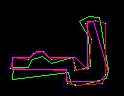
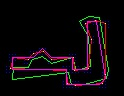
Лучше

diff --git a/grid.cpp b/grid.cpp
@@ -11,13 +11,6 @@ extern Scalar red;
 extern Scalar green;
 extern Scalar blue;
 
-struct comparePoints {
-    bool operator () (cv::Point const& a, cv::Point const& b) const
-    {
-        return (a.x < b.x) || (a.x == b.x && a.y < b.y);
-    }
-};
-
 // пока что на примере картинки с одним контуром реализую алгоритм Грибова
 void gribovAlgorithm() {
     Mat img = imread("../oneBuilding.jpeg");
@@ -88,7 +81,7 @@ void gribovAlgorithm() {
 
     int prevPointsCount = 3;
 
-    for (int pointNum = 1; pointNum < n; pointNum++) {
+    for (int pointNum = 1; pointNum <= n; pointNum++) {
         Point currentPoint = rotatedContour[pointNum];
         tempSC.clear();
         tempDA.clear();
@@ -103,15 +96,22 @@ void gribovAlgorithm() {
                 for (int prevAuxNum = 0; prevAuxNum < auxCount; prevAuxNum++) {
                     Point prevAuxPoint = auxilaryPoints[prevPoint][prevAuxNum];
                     if (prevPointNum != 0) {
-                        int prevPrevPointNum = bpp[prevPointNum][prevAuxNum].first;
-                        int prevPrevAuxPointNum = bpp[prevPointNum][prevAuxNum].second;
-                        Point prevPrevPoint = auxilaryPoints[rotatedContour[prevPrevPointNum]][prevPrevAuxPointNum];
+                        Point prevPrevPoint = getPrevPoint(prevPointNum, prevAuxNum, rotatedContour, bpp, auxilaryPoints);
                         double angle = getAngleBetweenSegments(prevPrevPoint, prevAuxPoint, currentAuxPoint);
                         if ((int)angle % 45 != 0) {
                             continue;
                         }
                     }
-                    double currentArea = getArea(currentPoint, prevPoint, currentAuxPoint, prevAuxPoint);
+                    vector<Point> newContour;
+                    newContour.push_back(currentPoint);
+                    for (int j = pointNum - 1; j > prevPointNum; j--){
+                        Point newPoint = rotatedContour[j];
+                        newContour.push_back(newPoint);
+                    }
+                    newContour.push_back(prevPoint);
+                    newContour.push_back(prevAuxPoint);
+                    newContour.push_back(currentAuxPoint);
+                    double currentArea = getArea(newContour);
                     double allArea = currentArea + da[prevPointNum][prevAuxNum];
                     if (allArea < minArea) {
                         minArea = allArea;
@@ -129,24 +129,9 @@ void gribovAlgorithm() {
         bpp.push_back(tempBPP);
     }
 
-    int lastIndex = rotatedContour.size() - 1;
+    // тут нужно соединить последнее и первое
 
-//    int minSC = INFINITY;
-//    int almostMinSC = INFINITY;
-//    vector<int> minAuxIndex;
-//    vector<int> almostMinIndex;
-//
-//    for (int i = 0; i < auxCount; i++) {
-//        int currentSC = sc[lastIndex][i];
-//        if (currentSC == minSC) {
-//            minAuxIndex.push_back(i);
-//        }
-//        if (currentSC < minSC) {
-//            minSC = currentSC;
-//            minAuxIndex.clear();
-//            minAuxIndex.push_back(i);
-//        }
-//    }
+    int lastIndex = rotatedContour.size() - 1;
 
     int minSC = INFINITY;
     int almostMinSC = INFINITY;
@@ -194,41 +179,15 @@ void gribovAlgorithm() {
         bestAuxIndex = minAuxIndex[0];
     }
 
-    int bestAlmostMinIndex;
-
-    if (almostMinIndex.size() > 1) {
-        double minArea = INFINITY;
-        for (int i: almostMinIndex) {
-            int currentArea = da[lastIndex][i];
-            if (currentArea < minArea) {
-                minArea = currentArea;
-                bestAlmostMinIndex = i;
-            }
-        }
-    } else {
-        bestAlmostMinIndex = almostMinIndex[0];
-    }
-
     vector<Point> rightContour;
-
-//    double minArea = INFINITY;
-//    int bestIndex;
-//    for (int i = 0; i < auxCount; i++) {
-//        double area = da[lastIndex][i];
-//        if (area < minArea) {
-//            minArea = area;
-//            bestIndex = i;
-//        }
-//    }
 
     int currentPointIndex = lastIndex;
     int currentAuxIndex = bestAuxIndex;
-//    if (da[lastIndex][bestAlmostMinIndex] < da[lastIndex][bestAuxIndex]) {
-//        currentAuxIndex = bestAlmostMinIndex;
-//    }
-    //int currentAuxIndex = bestIndex;
 
     while (currentPointIndex > 0) {
+        if (currentPointIndex == 0) {
+
+        }
         Point currentPoint = auxilaryPoints[rotatedContour[currentPointIndex]][currentAuxIndex];
         rightContour.push_back(currentPoint);
         pair<int, int> prevCoord = bpp[currentPointIndex][currentAuxIndex];
@@ -271,7 +230,7 @@ void gribovAlgorithm() {
 //    line(rotatedContourImg, bestPair.first, bestPair.second, Scalar(255, 0, 255));
 //    cout << getAngleBetweenSegments(rotatedContour[0], rotatedContour[1], rotatedContour[2]) << endl;
     showImg(rotatedContourImg, "rotated");
-    imwrite("../result2.jpg", rotatedContourImg);
+    imwrite("../result3.jpg", rotatedContourImg);
 }
 
 void drawGrid(int startX, int startY, int intervalX, int intervalY, Mat img, Scalar color) {
@@ -365,14 +324,10 @@ double getAngleBetweenSegments(Point point1, Point point2, Point point3) {
     return fromRadToDeg(angleInRad);
 }
 
-double getArea(Point point1, Point point2, Point auxPoint1, Point auxPoint2) {
-    vector<Point> newContour;
-    newContour.push_back(point1);
-    newContour.push_back(point2);
-    newContour.push_back(auxPoint2);
-    newContour.push_back(auxPoint1);
-    // return contourArea(newContour);
-    Rect boundRect = boundingRect(newContour);
+double getArea(vector<Point> contour) {
+    //return contourArea(contour);
+    cout << "Their area " << contourArea(contour) << endl;
+    Rect boundRect = boundingRect(contour);
     int left = boundRect.x;
     int top = boundRect.y;
     int width = boundRect.width;
@@ -384,13 +339,22 @@ double getArea(Point point1, Point point2, Point auxPoint1, Point auxPoint2) {
     {
         for (int y = top; y < y_end; y++)
         {
-            double test = pointPolygonTest(newContour, Point2f(x, y), false);
+            double test = pointPolygonTest(contour, Point2f(x, y), false);
             if (test == 1 || test == 0) {
                 cntArea += 1;
             }
         }
     }
+    cout << "My area " << cntArea << endl;
     return cntArea;
+}
+
+Point getPrevPoint(int pointNum, int auxNum, vector<Point> contour,
+        vector<vector<pair<int, int>>> bpp, map<Point, vector<Point>, comparePoints> auxilaryPoints) {
+    int prevPointNum = bpp[pointNum][auxNum].first;
+    int prevAuxPointNum = bpp[pointNum][auxNum].second;
+    Point prevPoint = auxilaryPoints[contour[prevPointNum]][prevAuxPointNum];
+    return prevPoint;
 }
 
 double getPCAAngle() {

diff --git a/grid.h b/grid.h
@@ -10,6 +10,13 @@
 
 #include "drawing.h"
 
+struct comparePoints {
+    bool operator () (cv::Point const& a, cv::Point const& b) const
+    {
+        return (a.x < b.x) || (a.x == b.x && a.y < b.y);
+    }
+};
+
 void gribovAlgorithm();
 void drawGrid(int startX, int startY, int intervalX, int intervalY, Mat img, Scalar color);
 double getRotationAngleInDeg(vector<Point> contour);
@@ -24,5 +31,7 @@ vector<Point> getAuxilaryGridPoints(Point centerPoint, int intervalX, int interv
 int getNearestCoord(int pointCoord, int gridInterval, int gridStart);
 Point getRotatedPoint(Point point, Point centroid, double rotationAngle);
 double getAngleBetweenSegments(Point point1, Point point2, Point point3);
-double getArea(Point point1, Point point2, Point auxPoint1, Point auxPoint2);
+double getArea(vector<Point> contour);
+Point getPrevPoint(int pointNum, int auxNum, vector<Point> contour,
+                   vector<vector<pair<int, int>>> bpp, map<Point, vector<Point>, comparePoints> auxilaryPoints);
 double getPCAAngle();
